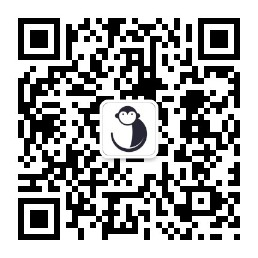
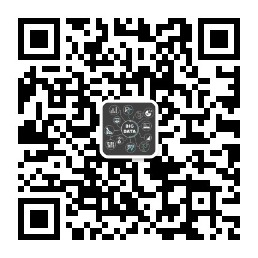
更新微信号

diff --git a/_includes/sidebar-qrcode.html b/_includes/sidebar-qrcode.html
@@ -1,4 +1,4 @@
-{% if site.url contains 'mazhuang.org' %}
+{% if site.url contains 'dmcoders.com/' %}
 <h3>欢迎关注我的微信公众号</h3>
 <img style="border:1px solid #dddddd;height:192px;width:192px" src="/assets/images/qrcode.jpg" alt="闷骚的程序员" />
 {% endif %}
